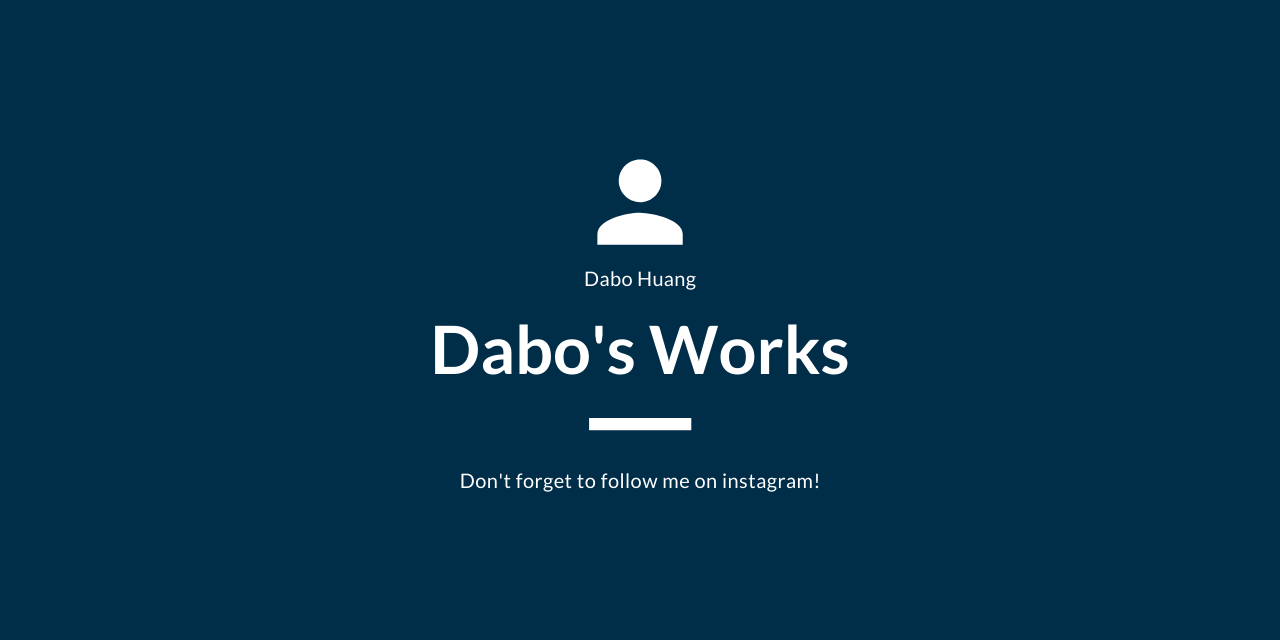
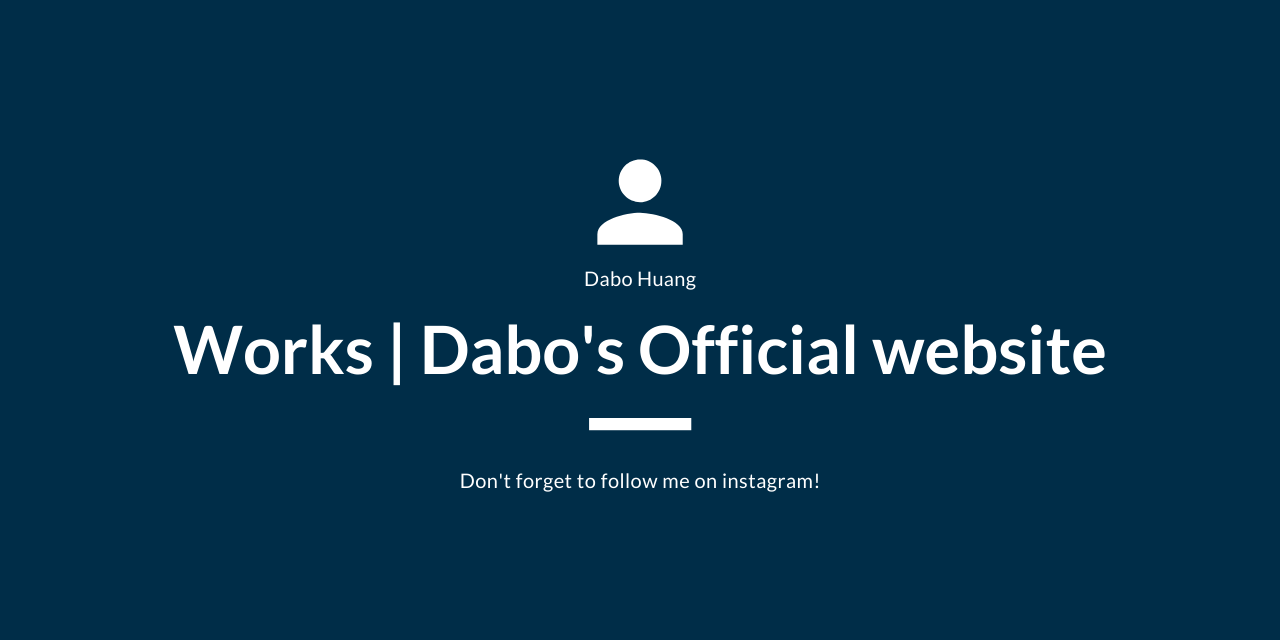
v2.0

Changed region(s): [[0.125, 0.5, 0.875, 0.5938]]

diff --git a/works/index.html b/works/index.html
@@ -1,10 +1,11 @@
 <!DOCTYPE HTML>
 <html>
 	<head>
-		<title>My Works</title>
+		<title>Works | Dabo's Official Website</title>
 		<meta charset="utf-8" />
 		<meta name="viewport" content="width=device-width, initial-scale=1, user-scalable=no" />
 		<link rel="stylesheet" href="assets/css/main.css" />
+		<link rel="icon" herf="images/icon.png">
 		<noscript><link rel="stylesheet" href="assets/css/noscript.css" /></noscript>
 		
 	</head>
@@ -13,13 +14,13 @@
 		<meta property="og:url" content="https://dabo.xyz/works/index.html" />
 		<meta property="og:locale" content="zh_TW" />
 		<meta property="og:type" content="website" />
-		<meta property="og:title" content="Dabo's Works" />
-		<meta property="og:description" content="Dabo's Works are all in there"/>
+		<meta property="og:title" content="Works | Dabo's Official Website" />
+		<meta property="og:description" content="Dabo's Official Website"/>
 		<meta property="og:image" content="images/pic.png" />
-		<meta property="og:image:alt" content="Dabo's Works" />
-		<meta property="og:image:type" content="image/pic.png" />
-		<meta property="og:image:width" content="1200" />
-		<meta property="og:image:height" content="630" />
+		<meta property="og:image:alt" content="Works | Dabo's Official Website" />
+		<meta property="og:image:type" content="images/pic.png" />
+		<meta property="og:image:width" content="1280" />
+		<meta property="og:image:height" content="640" />
 <!-- End Facebook Opengraph -->
 </head>
 	<body class="is-preload">
@@ -135,7 +136,7 @@
 					<li><a href="https://github.com/daboyu" class="icon brands fa-github"><span class="label">Github</span></a></li>
 					<li><a href="https://www.youtube.com/channel/UCkcZmZ5gcYYUHiFZ9JL3WIA?sub_confirmation=1" class="icon brands fa-youtube"><span class="label">Youtube</span></a></li>
 				</ul>
-				<h5 class="copyright">&copy;&nbsp; 2020&nbsp; <a href="http://dabo.xyz">DABO.XYZ&nbsp; </a> |&nbsp; BY DABO HUANG</h5>
+				<h5 class="copyright">&copy;&nbsp; 2020&nbsp; <a href="http://dabo.xyz">DABO'S OFFICIAL WEBSITE&nbsp; </a> |&nbsp; BY DABO HUANG</h5>
 	</footer>
 
 		<!-- Scripts -->

diff --git a/index.html b/index.html
@@ -1,11 +1,24 @@
 <!DOCTYPE HTML>
 <html>
 	<head>
-		<title>About me</title>
+		<title>Dabo's Official Website</title>
 		<meta charset="utf-8" />
 		<meta name="viewport" content="width=device-width, initial-scale=1, user-scalable=no" />
 		<link rel="stylesheet" href="assets/css/main.css" />
+		<link rel="icon" herf="images/icon.png">
 		<noscript><link rel="stylesheet" href="assets/css/noscript.css" /></noscript>
+	<!-- Facebook Opengraph -->
+		<meta property="og:url" content="https://dabo.xyz/index.html" />
+		<meta property="og:locale" content="zh_TW" />
+		<meta property="og:type" content="website" />
+		<meta property="og:title" content="Home | Dabo's Official Website" />
+		<meta property="og:description" content="Dabo's Official Website"/>
+		<meta property="og:image" content="images/pic.png" />
+		<meta property="og:image:alt" content="Home | Dabo's Official Website" />
+		<meta property="og:image:type" content="images/pic.png" />
+		<meta property="og:image:width" content="1280" />
+		<meta property="og:image:height" content="640" />
+	<!-- End Facebook Opengraph -->
 	</head>
 	<body class="is-preload">
 
@@ -33,7 +46,7 @@
 				<!-- Footer -->
 					<footer id="footer">
 						<ul class="copyright">
-						  <li>&copy; 2020 <a href="http://me.dabo.xyz">me.dabo.xyz</a> BY dabo HUANG</li>
+						  <li>&copy; 2020 <a href="http://dabo.xyz">DABO'S OFFICIAL WEBSITE</a> BY DABO HUANG</li>
 					  </ul>
 					</footer>
 
